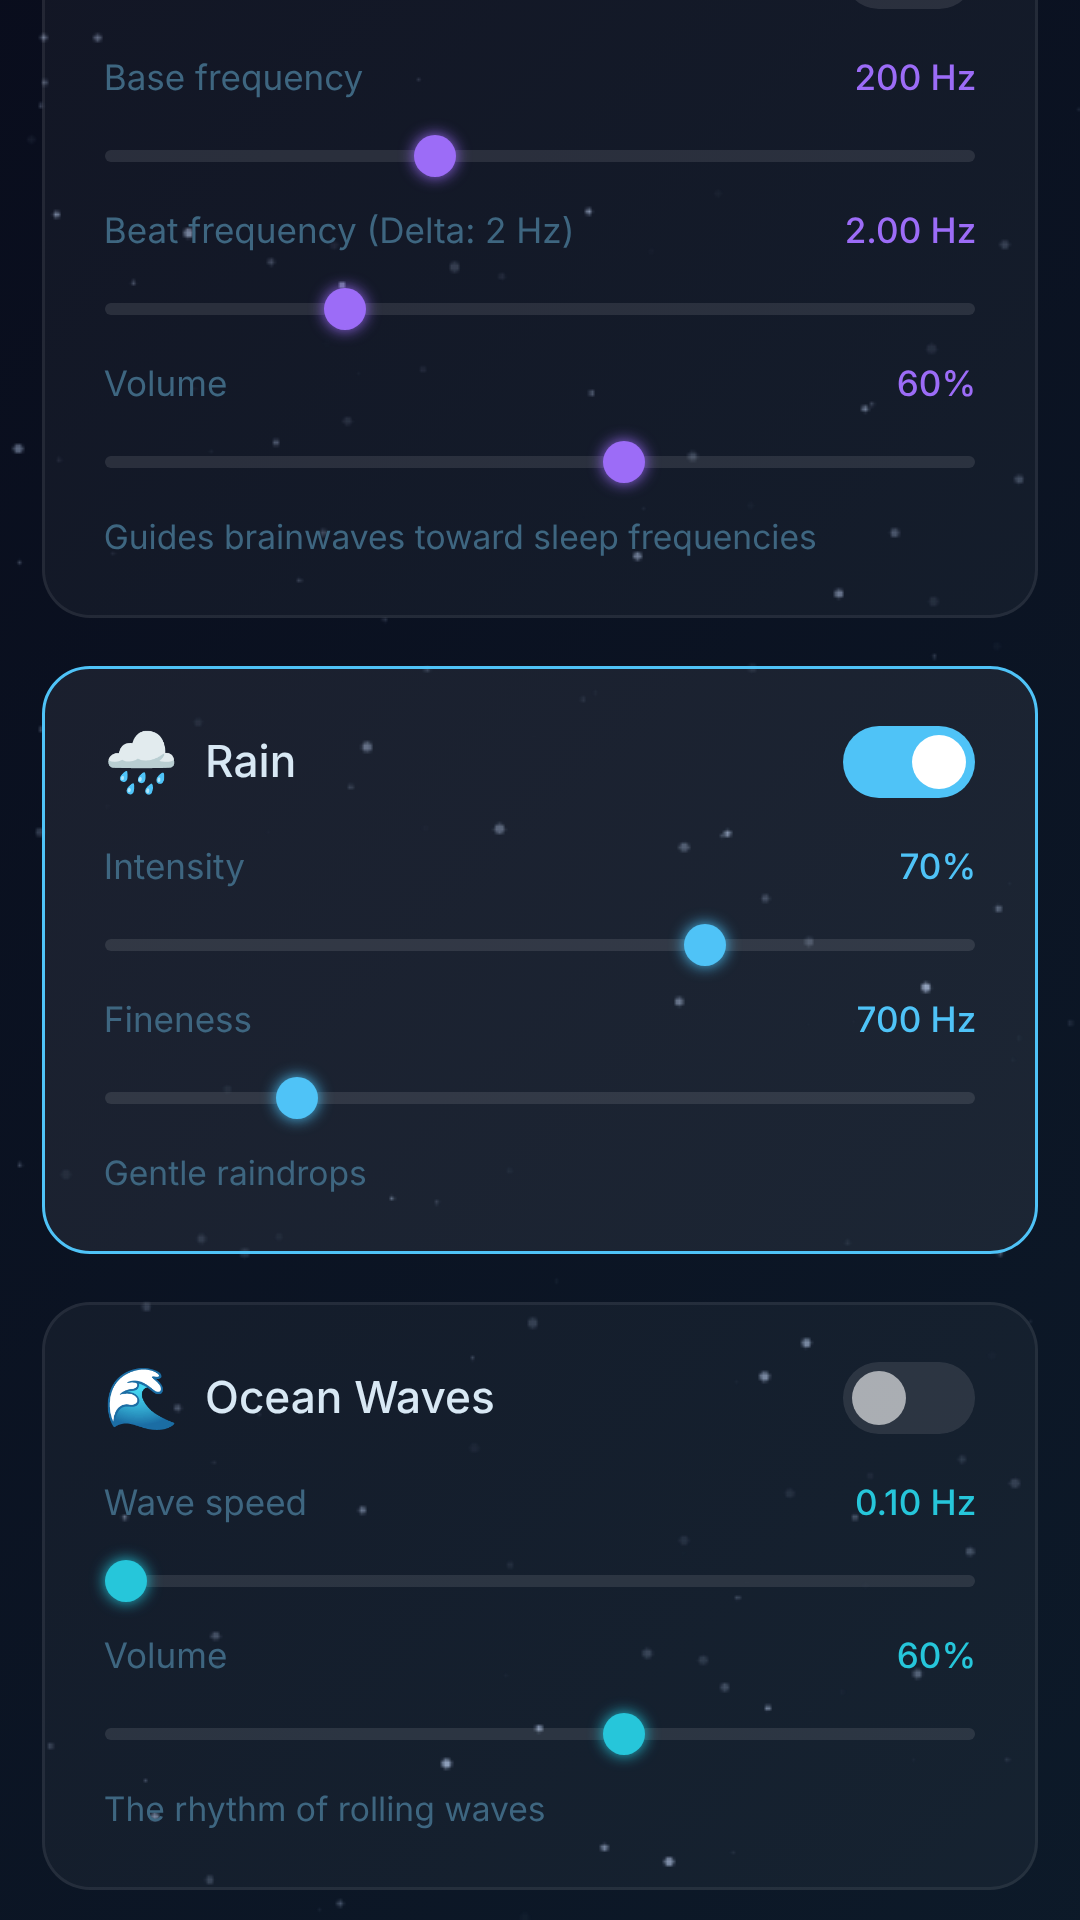
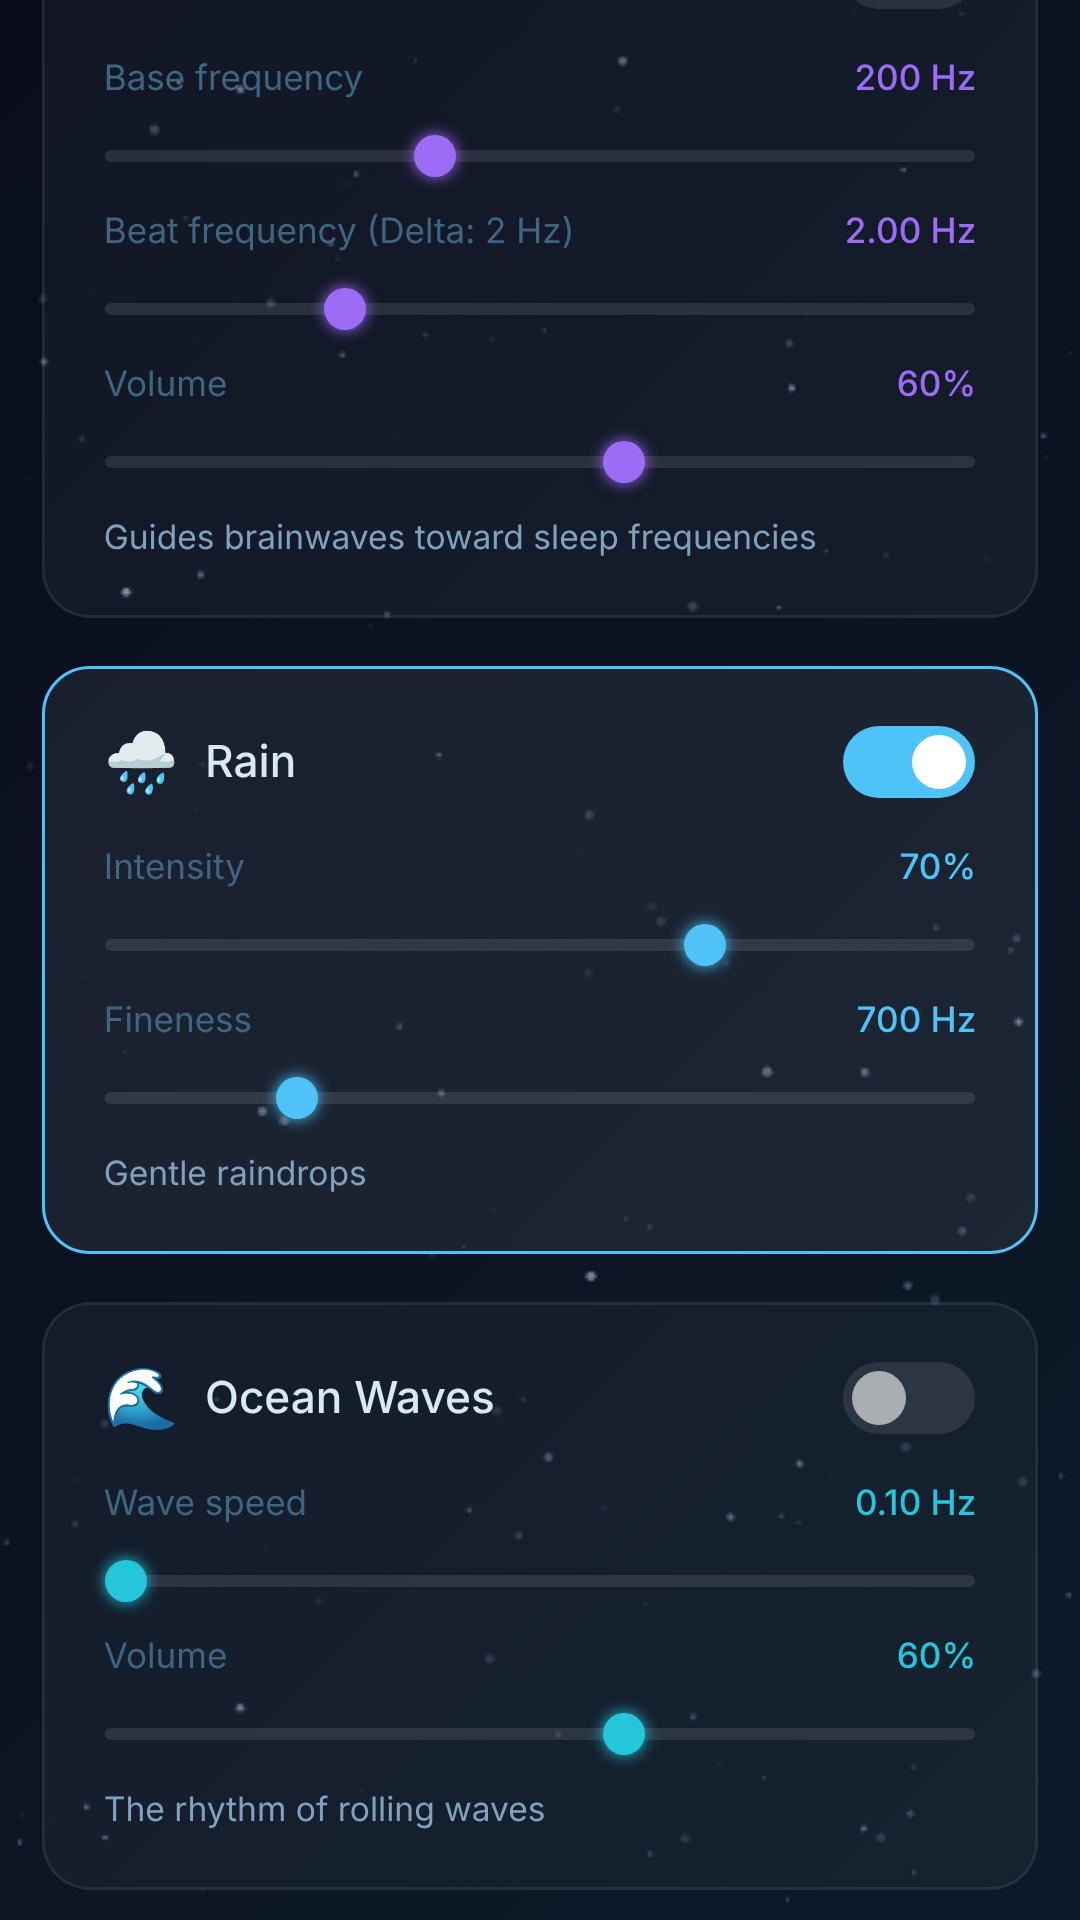
小さい画面の音量ラベル・停止中のタイマー・説明文の色を直す
- 波形の欄を画面幅に合わせて縮め、「マスター音量」を折り返さない
- タイマーは鳴らしているあいだだけ減らす（停止中に選んだら ▶ で減り始める）
- カードの説明文を明るくして読みやすくする

Claude-Session: https://claude.ai/code/session_01UXdYbpEdQxEjx8t6Wfhc5V

diff --git a/js/main.js b/js/main.js
@@ -54,7 +54,7 @@ let ctx = null, masterGain = null, analyser = null;
 let noiseBufs = null;
 let playing = false;
 const active = {}, params = {}, nodes = {};
-let timerHandle = null, timerEnd = 0, fading = false;
+let timerHandle = null, timerEnd = 0, timerRemain = 0, fading = false;
 
 // アプリ（js/app.js）が再生の開始・停止を知るためのフック
 //   onStart … 止まっている状態から鳴らし始めるとき（ボタンを押した直後に呼ぶ）
@@ -323,6 +323,8 @@ function setPlaying(v) {
   playing = v;
   $('playBtn').textContent = v ? '⏸' : '▶';
   $('playBtn').classList.toggle('on', v);
+  // タイマーは鳴らしているあいだだけ減らす
+  if (v) runTimer(); else pauseTimer();
   if (hooks.onChange) hooks.onChange(v);
 }
 
@@ -356,7 +358,9 @@ function checkAllOff() {
 }
 
 // ── Timer ────────────────────────────────────────────────────────────────────
-// 終わる時刻を覚えておき、残り時間はそこから計算する
+// 減るのは鳴らしているあいだだけ。止めるとその時点の残り時間で止まり、▶ で続きから減る。
+// 止まっているときに選んだら、時間だけを覚えておき、鳴らし始めたときから減り始める。
+// 動いているあいだは終わる時刻を覚えておき、残り時間はそこから計算する
 // （画面を消しているあいだにタイマー処理が遅れても、ずれないようにするため）
 function restoreMasterGain() {
   fading = false;
@@ -365,21 +369,44 @@ function restoreMasterGain() {
   masterGain.gain.setValueAtTime($('masterVol').value / 100, ctx.currentTime);
 }
 
-function setTimer(min) {
-  clearInterval(timerHandle); timerHandle = null;
-  $('timerDisplay').textContent = '';
-  if (fading) restoreMasterGain();
-  document.querySelectorAll('.timer-btn').forEach(b => b.classList.toggle('active', +b.dataset.min === min));
-  if (min === 0) return;
-  timerEnd = Date.now() + min * 60000;
+function timerLeftMs() {
+  return timerHandle ? Math.max(0, timerEnd - Date.now()) : timerRemain;
+}
+
+function showTimer() {
+  if (!timerRemain && !timerHandle) { $('timerDisplay').textContent = ''; return; }
+  const left = Math.round(timerLeftMs() / 1000);
+  const m = Math.floor(left / 60), s = left % 60;
+  const paused = timerHandle ? '' : L('（停止中）', ' (paused)');
+  $('timerDisplay').textContent = `${L('残り','Left')} ${m}:${String(s).padStart(2,'0')}${paused}`;
+}
+
+function runTimer() {
+  if (timerHandle || !timerRemain) return;
+  timerEnd = Date.now() + timerRemain;
   timerHandle = setInterval(tickTimer, 1000);
   tickTimer();
 }
 
+function pauseTimer() {
+  if (!timerHandle) return;
+  timerRemain = Math.max(1000, timerEnd - Date.now());
+  clearInterval(timerHandle); timerHandle = null;
+  if (fading) restoreMasterGain();
+  showTimer();
+}
+
+function setTimer(min) {
+  clearInterval(timerHandle); timerHandle = null;
+  if (fading) restoreMasterGain();
+  timerRemain = min * 60000;
+  document.querySelectorAll('.timer-btn').forEach(b => b.classList.toggle('active', +b.dataset.min === min));
+  if (playing) runTimer(); else showTimer();
+}
+
 function tickTimer() {
-  const left = Math.max(0, Math.round((timerEnd - Date.now()) / 1000));
-  const m = Math.floor(left / 60), s = left % 60;
-  $('timerDisplay').textContent = `${L('残り','Left')} ${m}:${String(s).padStart(2,'0')}`;
+  const left = Math.round(timerLeftMs() / 1000);
+  showTimer();
   // 最後の 30 秒でゆっくり音を小さくする
   if (left <= 30 && !fading && masterGain && ctx) {
     fading = true;

diff --git a/css/style.css b/css/style.css
@@ -9,9 +9,10 @@ h1{text-align:center;font-size:2rem;font-weight:300;letter-spacing:.12em;color:#
 .play-btn{width:52px;height:52px;border-radius:50%;border:2px solid #4fc3f7;background:rgba(79,195,247,.13);color:#4fc3f7;font-size:1.2rem;cursor:pointer;display:flex;align-items:center;justify-content:center;transition:.2s;flex-shrink:0}
 .play-btn:hover{background:rgba(79,195,247,.28);transform:scale(1.06)}
 .play-btn.on{box-shadow:0 0 18px rgba(79,195,247,.45)}
-.vol-wrap{flex:1;display:flex;flex-direction:column;gap:.35rem}
-.vol-wrap label{font-size:.72rem;color:#3e6680;text-transform:uppercase;letter-spacing:.07em}
-#vizCanvas{border-radius:8px;background:rgba(0,0,0,.25);flex-shrink:0}
+.vol-wrap{flex:1;min-width:0;display:flex;flex-direction:column;gap:.35rem}
+.vol-wrap label{white-space:nowrap;font-size:.72rem;color:#3e6680;text-transform:uppercase;letter-spacing:.07em}
+/* 波形の欄は画面が狭いと縮める（音量の欄の幅を残すため） */
+#vizCanvas{width:min(180px,32vw);height:auto;aspect-ratio:180/44;border-radius:8px;background:rgba(0,0,0,.25);flex-shrink:0}
 
 .presets{display:flex;gap:.6rem;flex-wrap:wrap;margin-bottom:1.2rem}
 .preset-btn{font-size:.8rem;padding:.4rem .9rem;border-radius:20px;border:1px solid rgba(255,255,255,.12);background:rgba(255,255,255,.05);color:#8ab4cc;cursor:pointer;transition:.2s;white-space:nowrap}
@@ -30,7 +31,7 @@ h1{text-align:center;font-size:2rem;font-weight:300;letter-spacing:.12em;color:#
 .card-head{display:flex;align-items:center;justify-content:space-between;margin-bottom:1rem}
 .card-title{display:flex;align-items:center;gap:.55rem;font-size:.92rem;font-weight:500}
 .card-icon{font-size:1.25rem}
-.card-desc{margin-top:.6rem;font-size:.7rem;color:#2e5060}
+.card-desc{margin-top:.6rem;font-size:.7rem;color:#7fa3bd}
 
 .tog{position:relative;width:44px;height:24px;flex-shrink:0}
 .tog input{opacity:0;width:0;height:0}
@@ -71,10 +72,8 @@ footer .legal a:hover{text-decoration:underline}
   h1{font-size:1.7rem}
   .subtitle{margin-bottom:1.2rem}
   .master{padding:.8rem 1rem;gap:.8rem}
-  #vizCanvas{width:110px;height:36px}
   .presets{gap:.45rem}
   .preset-btn{font-size:.82rem;padding:.45rem .85rem}
   .timer-btn{font-size:.8rem;padding:.4rem .75rem}
   .grid{grid-template-columns:1fr}
-  .card-desc{color:#3e6680}
 }
